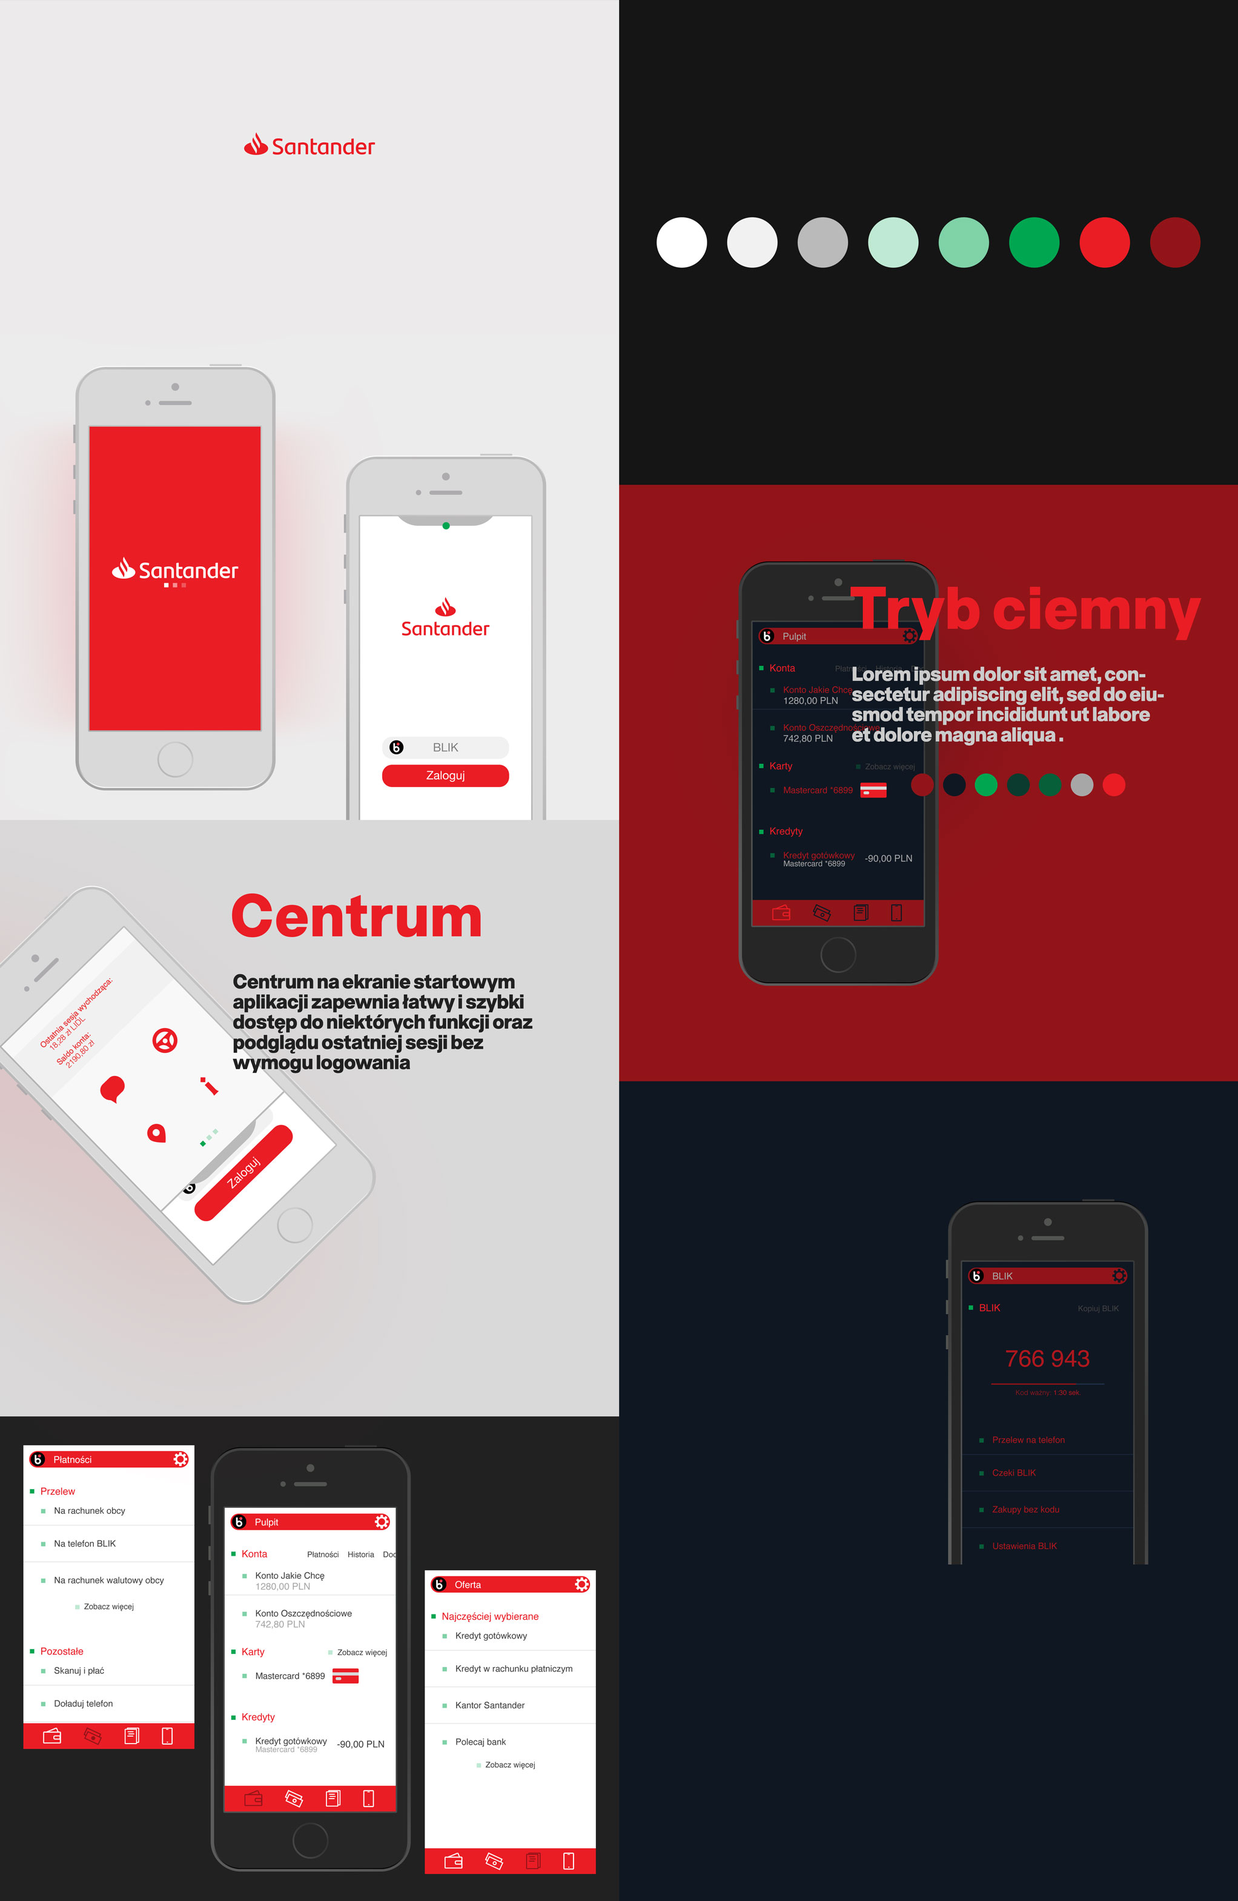
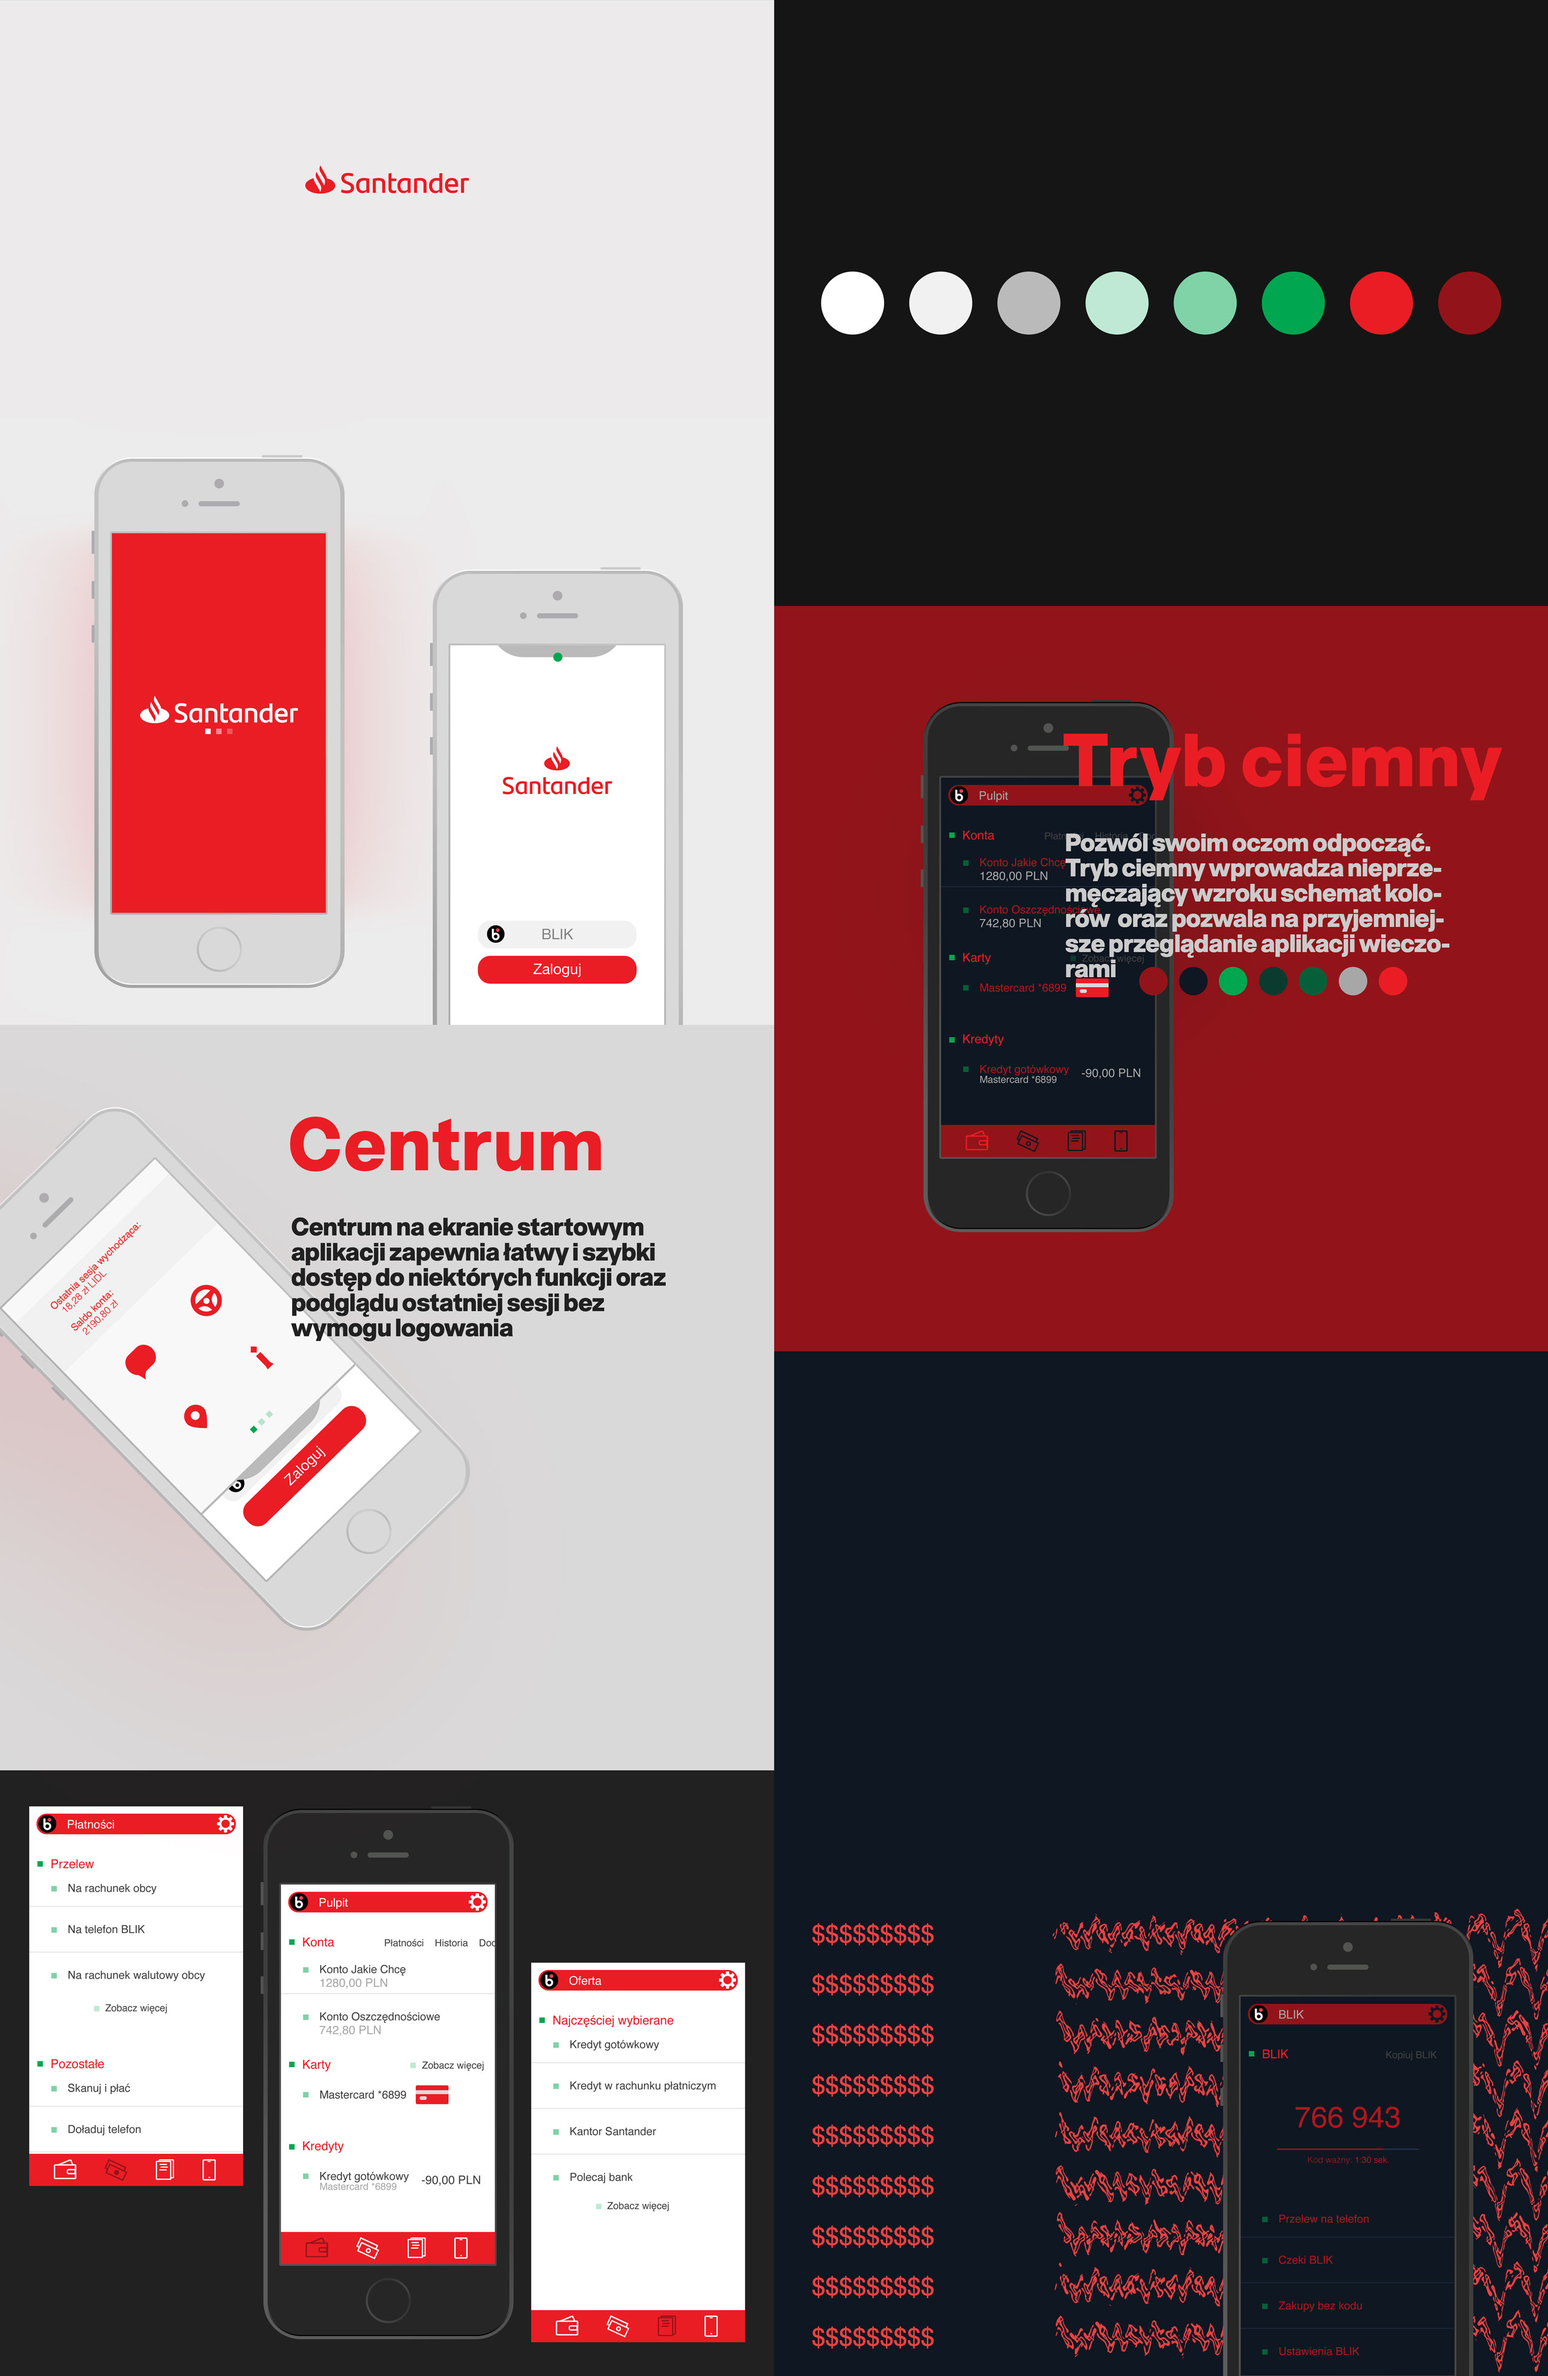
update

Changed region(s): [[0.6781, 0.6246, 1.0, 1.0], [0.6781, 0.3435, 0.9247, 0.4372], [0.524, 0.812, 0.6164, 0.9994]]

diff --git a/page/page.html b/page/page.html
@@ -8,12 +8,23 @@
   </head>
   <body>
     <div class="text">
-      <h1>Santander Mobile App Redesign Concept</h1>
+      <h1></h1>
     </div>
     <div class="content">
 
-      <div class="image"><img src="longart.jpg"></div>
+      <div class="image"><img src="Santander/1.jpg"></div>
+      <div class="image"><img src="Santander/2.jpg"></div>
       <div class="image"><img src="animation1.gif"></div>
+      <div class="image"><img src="Santander/3.jpg"></div>
+      <div class="image"><img src="animation2.gif"></div>
+      <div class="image"><img src="Santander/4.jpg"></div>
+      <div class="image"><img src="Santander/5.jpg"></div>
+
+      <div class="footer">
+        <div class="image"><img src="Santander/logo.jpg"></div>
+        <p>@2020</p>
+      </div>
+
 
 
     </div>

diff --git a/index.html b/index.html
@@ -12,7 +12,7 @@
       <h1><div class="logo"><a href="index.html"><img src="logo.png" style="width: 3%; height: 3%;"></a></div></h1>
 
       <div class="img-area">
-        <a href="page/page.html"><div class="single-img"><img src="Santander.png">
+        <a href="page/page.html"><div class="single-img"><img src="Santander.jpg">
           <div>Santander Mobile App Redesign Concept</div></div></a>
         <div class="single-img"><img src="blank.png"></div>
         <div class="single-img"><img src="blank.png" alt=""></div>

diff --git a/page/page.css b/page/page.css
@@ -1,5 +1,5 @@
 body{
-  background-color: #0d0d0d;
+  background-color: #ececec;
   margin-top: 75px;
   font-family: 'Roboto', sans-serif;
 }
@@ -33,8 +33,20 @@ img {
   display: block;
   margin-left: auto;
   margin-right: auto;
-  width: 60%;
+  width: 40%;
+  padding: 5px;
 }
+
+.footer {
+  width: 25%;
+  display: block;
+  margin-left: auto;
+  margin-right: auto;
+  padding-top: 130px;
+  color: #ea1d25;
+}
+
+
 
 @keyframes transitionIn {
     from{
